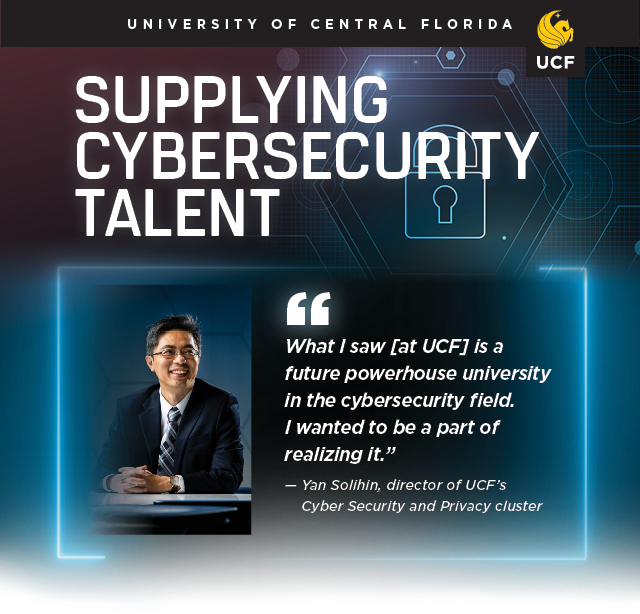
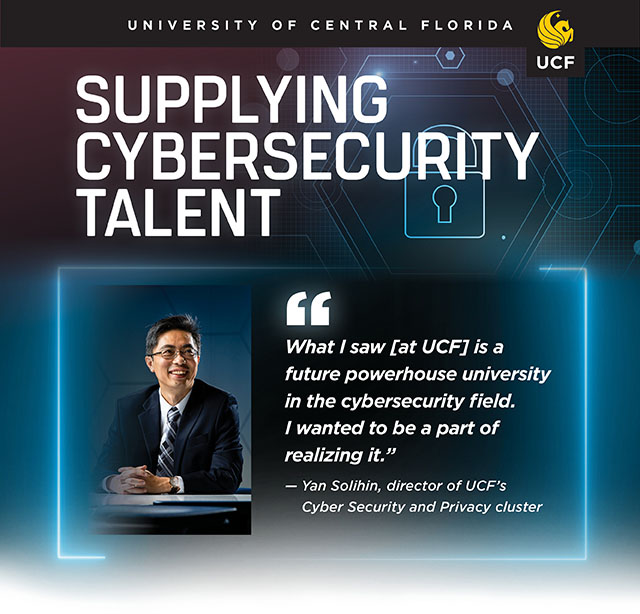
Added utm params and updated images

diff --git a/src/cybersecurity.html b/src/cybersecurity.html
@@ -12,7 +12,7 @@
 
   <link rel="stylesheet" type="text/css" href="css/template.css">
 
-  <title>Supplying Cybersecurity Talent</title>
+  <title>A Future Powerhouse in Cybersecurity</title>
 </head>
 
 <body class="body">
@@ -30,7 +30,7 @@
               <!-- START Header graphic -->
               <tr>
                 <td class="pb-5">
-                  <a href="https://www.ucf.edu/news/the-invisible-line-of-cyberdefense/">
+                  <a href="https://www.ucf.edu/news/the-invisible-line-of-cyberdefense/?utm_source=newsletter&utm_medium=email&utm_campaign=chronicle_september_e-blast">
                     <img class="img-fluid"
                       src="https://s3.amazonaws.com/web.ucf.edu/email/2021-chronicle-email/cybersecurity/cybersecurity-header.jpg"
                       alt="Supplying Cybersecurity Talent">
@@ -51,7 +51,7 @@
                           cybsersecurity research and academia, Yan Solihin knew University of Central Florida was where he needed to be after
                           serving as director for the U.S. National Science Foundation’s Secure and Trustworthy
                           Cyberspace program. With more than two years of experience at the NSF, Solihin had a chance to
-                          see the spectrum of cybersecurity research across the United States and <a href="https://www.ucf.edu/news/the-invisible-line-of-cyberdefense/">he easily recognized
+                          see the spectrum of cybersecurity research across the United States and <a href="https://www.ucf.edu/news/the-invisible-line-of-cyberdefense/?utm_source=newsletter&utm_medium=email&utm_campaign=chronicle_september_e-blast">he easily recognized
                           UCF as a flourishing innovative center</a> that could help fill the nation’s talent shortage.
                         </td>
                       </tr>
@@ -70,7 +70,7 @@
                     <tbody>
                       <tr>
                         <td>
-                          <a href="https://www.ucf.edu/news/the-invisible-line-of-cyberdefense/">
+                          <a href="https://www.ucf.edu/news/the-invisible-line-of-cyberdefense/?utm_source=newsletter&utm_medium=email&utm_campaign=chronicle_september_e-blast">
                             <img class="mw-100"
                               src="https://s3.amazonaws.com/web.ucf.edu/email/2021-chronicle-email/cybersecurity/cybersecurity-cta.png"
                               alt="See Why He Chose UCF">
@@ -116,7 +116,7 @@
                     <tbody>
                       <tr>
                         <td class="text-left">
-                          As director of UCF’s <a href="https://www.ucf.edu/research/cyber-security-privacy/">Cyber
+                          As director of UCF’s <a href="https://www.ucf.edu/research/cyber-security-privacy/?utm_source=newsletter&utm_medium=email&utm_campaign=chronicle_september_e-blast">Cyber
                             Security and Privacy cluster</a>, the computer science professor knows
                           first-hand the university’s commitment to invest in cybersecurity research, education,
                           training, talent development, and collaborations with tech companies. From Solihin’s first
@@ -142,7 +142,7 @@
               <!-- START Footer graphic -->
               <tr>
                 <td>
-                  <a href="https://www.ucf.edu/news/the-invisible-line-of-cyberdefense/">
+                  <a href="https://www.ucf.edu/news/the-invisible-line-of-cyberdefense/?utm_source=newsletter&utm_medium=email&utm_campaign=chronicle_september_e-blast">
                     <img class="mw-100"
                       src="https://s3.amazonaws.com/web.ucf.edu/email/2021-chronicle-email/cybersecurity/cybersecurity-footer.jpg"
                       alt="UCF Faculty are Increasing Cybersecurity Talent">
